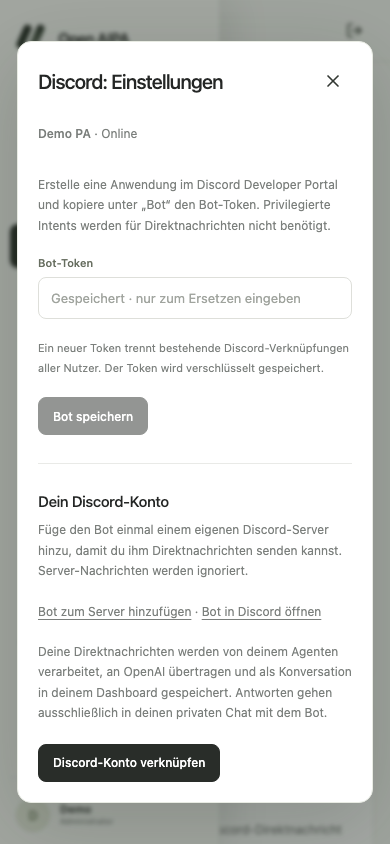
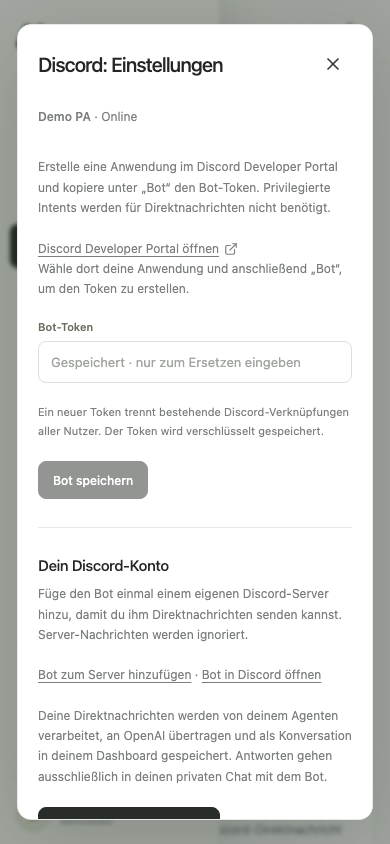
fix: make Discord developer portal shortcut visible

Changed region(s): [[0.0308, 0.0308, 0.9538, 0.9858]]

diff --git a/web/components/DiscordSettings.tsx b/web/components/DiscordSettings.tsx
@@ -1,4 +1,5 @@
 import { useEffect, useState, type FormEvent } from 'react';
+import { ExternalLink } from 'lucide-react';
 import { api, type User } from '../api';
 import { ErrorMessage, Loading } from './ui';
 interface DiscordData {
@@ -92,16 +93,20 @@ export function DiscordSettings({
             <form onSubmit={save}>
               <fieldset disabled={busy}>
                 <p>
-                  Erstelle eine Anwendung im{' '}
+                  Erstelle eine Anwendung im Discord Developer Portal und kopiere unter „Bot“ den
+                  Bot-Token. Privilegierte Intents werden für Direktnachrichten nicht benötigt.
+                </p>
+                <p>
                   <a
+                    className="integration-console-link"
                     href="https://discord.com/developers/applications"
                     target="_blank"
                     rel="noopener noreferrer"
                   >
-                    Discord Developer Portal
-                  </a>{' '}
-                  und kopiere unter „Bot“ den Bot-Token. Privilegierte Intents werden für
-                  Direktnachrichten nicht benötigt.
+                    Discord Developer Portal öffnen <ExternalLink size={14} aria-hidden="true" />
+                  </a>
+                  <br />
+                  Wähle dort deine Anwendung und anschließend „Bot“, um den Token zu erstellen.
                 </p>
                 <label className="field">
                   <span>Bot-Token</span>
